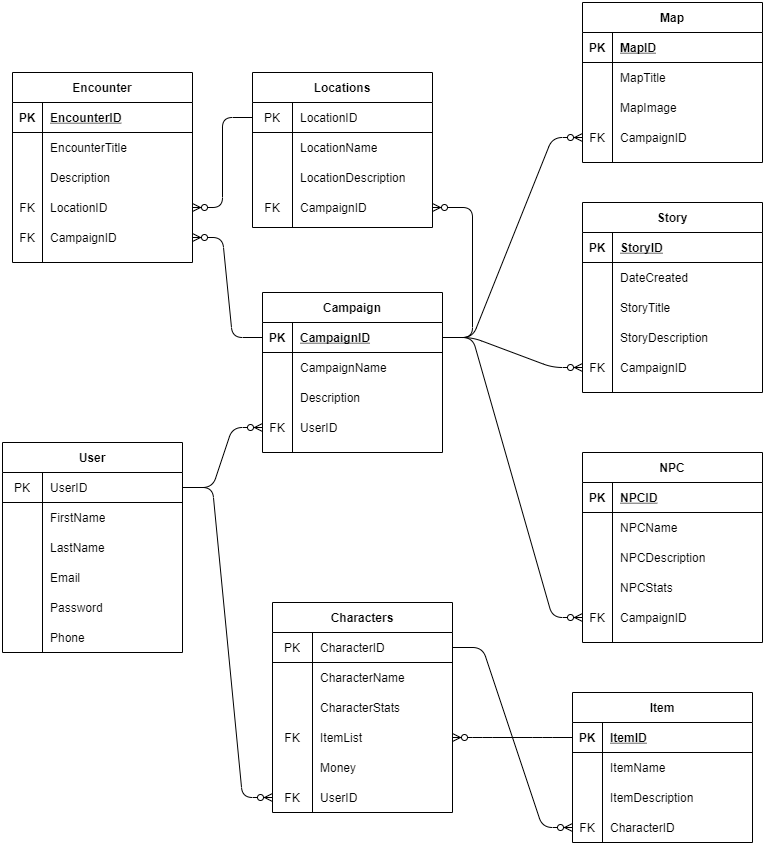
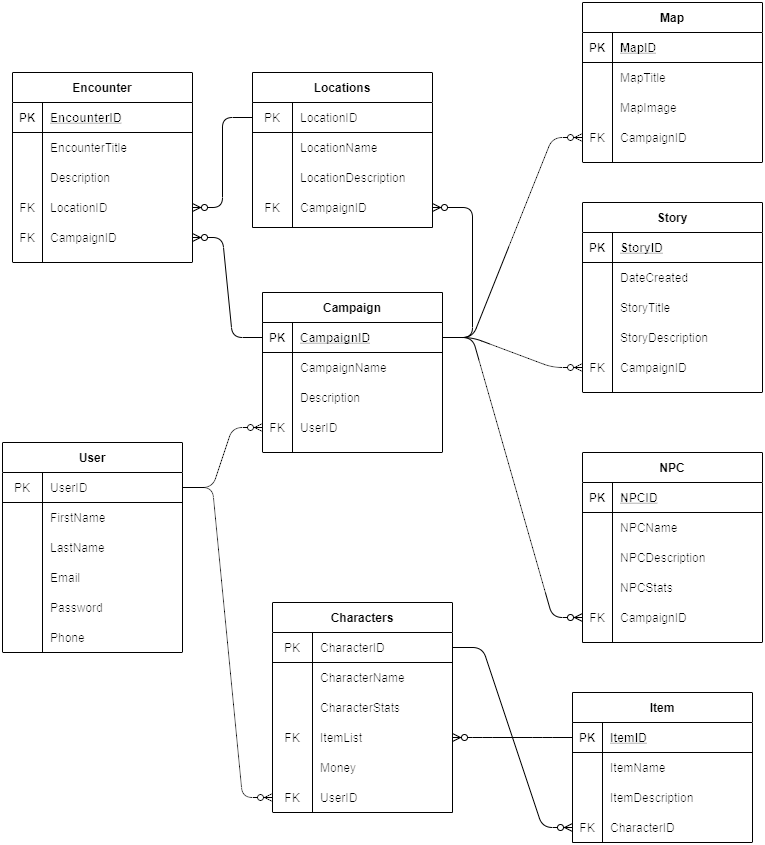
Fixed formatting error in README.md, fixed transparency issue in ERD

diff --git a/README.md b/README.md
@@ -1,4 +1,5 @@
-![Bugbear Logo](/resources/icon/bugbearIcon_64.png) # Bugbear - D&D Campaign Manager 
+# Bugbear - D&D Campaign Manager 
+![Bugbear Logo](/resources/icon/bugbearIcon_64.png) 
  
 ## Overview  
 *Bugbear is a web application designed to help a Game Master manage their Dungeon and Dragons campaign.  Bugbear will provide a single place for the GM to store all the relevant information about their campaign’s PCs, NPCs, locations, and established story in a single place.  The story is stored in sections that can be edited or deleted individually.  NPCs are all stored together in a table, each with their own description and relevant information.  Players will have access to their Player Sheet stored server-side so they don’t have to worry about losing it.  All their items, health, and player stats can be adjusted freely and those changes will be recorded in a database.  Game Masters will have access to all this information for them to reference when planning their sessions and preparing campaign content.  GMs can plan combat encounters, as well as prepare settings with detailed descriptions ahead of time.  During the session, both Players and the Dungeon Master will have access to a Dice Roller to roll dice and record the result for all to see.*
